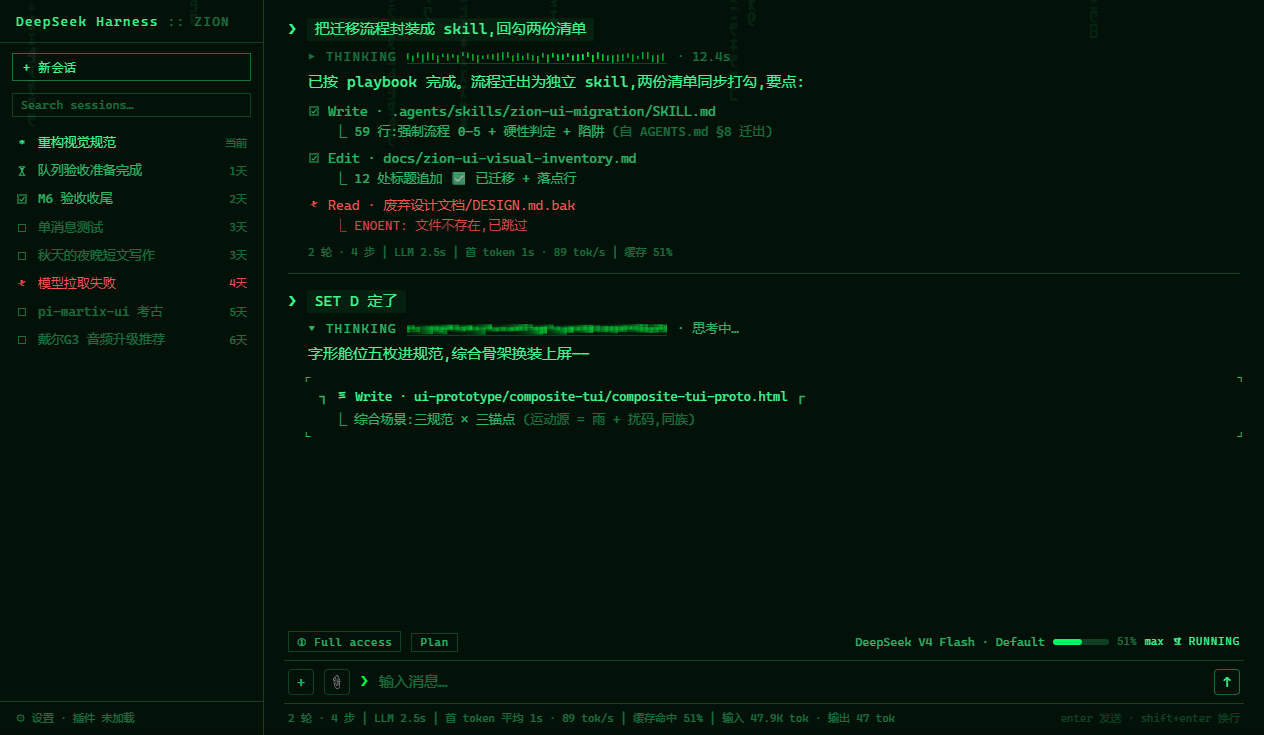
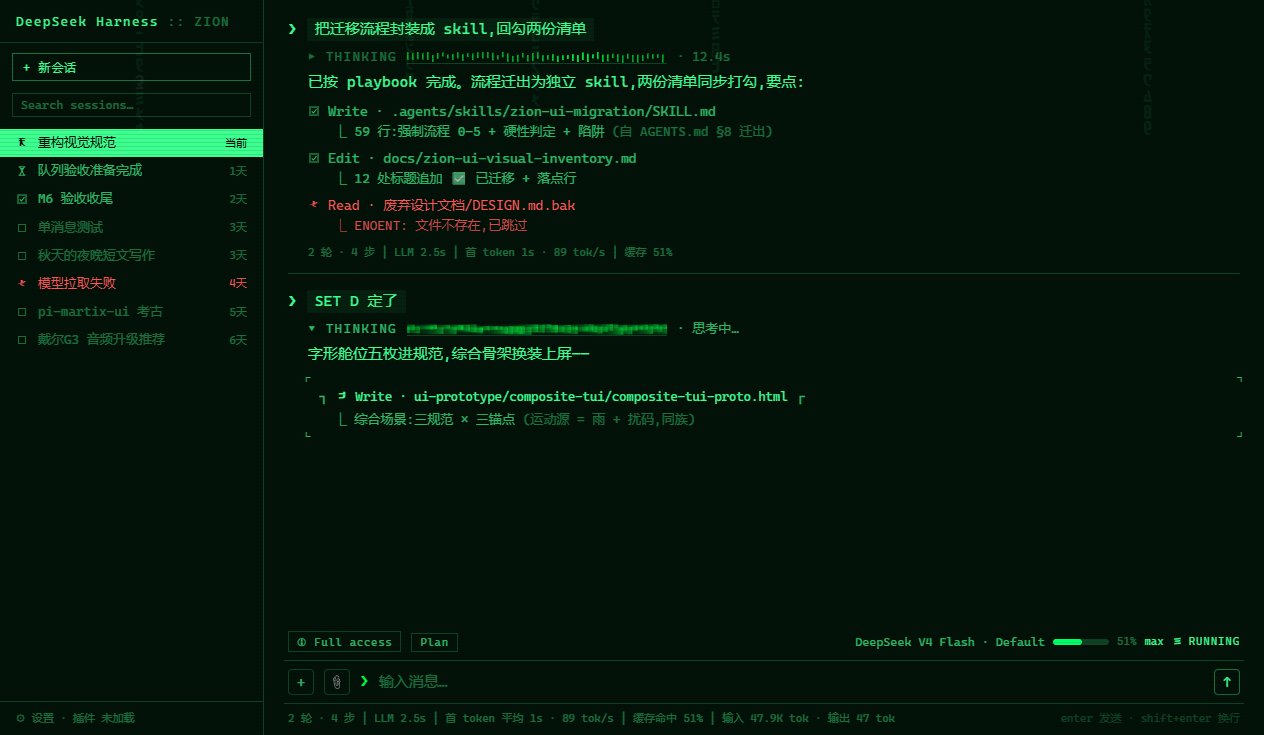
docs(design): 沉淀 §2.10 反色选中行(C08 选 A 全反),composite 侧栏上反显
- DESIGN.md §2.10:选中=整行反显(底 #3dff8f 字 #010a04),行内一切一并反色;
  hover=6% 薄底与选中分两档;错误行选中红让位,✗ 图标保留语义;一列表至多一个反色行
- row-select demo:A/B 对照,选定 A
- composite-tui 侧栏当前会话行换装反显

Changed region(s): [[0.0, 0.1497, 0.216, 0.2395], [0.3394, 0.419, 0.5245, 0.4789]]

diff --git a/ui-prototype/row-select/row-select-proto.html b/ui-prototype/row-select/row-select-proto.html
@@ -1,0 +1,143 @@
+<!DOCTYPE html>
+<!-- PROTOTYPE — throwaway: C08 反色选中行微 demo
+     裁决问题:选中行 = A 全反(底 #3dff8f)还是 B 柔反(底 70% 档)?
+     纪律:选中 = 整行反显(前景背景互换),不加边框、不加左侧色条;行内图标/文字一并反色;
+     hover 与选中分两档(hover = 6% 薄底,选中 = 反显)。 -->
+<html lang="zh">
+<head>
+<meta charset="utf-8">
+<title>C08 · 反色选中行</title>
+<style>
+  @font-face { font-family: "Matrix Code"; src: url("../../renderer/src/assets/fonts/Matrix-Code.ttf"); font-display: swap; }
+  :root {
+    --bg: #010a04;
+    --surface: rgba(2, 18, 9, 0.92);
+    --p100: rgba(61, 255, 143, 1);
+    --p70: rgba(61, 255, 143, 0.7);
+    --p40: rgba(61, 255, 143, 0.4);
+    --p20: rgba(61, 255, 143, 0.2);
+    --danger: #ff5555;
+    --font: "Share Tech Mono", ui-monospace, "Cascadia Mono", "Courier New", "Sarasa Term SC", "Microsoft YaHei", monospace;
+  }
+  * { margin: 0; padding: 0; box-sizing: border-box; }
+  body { background: var(--bg); color: var(--p100); font: 15px/1.55 var(--font); padding: 28px 32px; }
+  *::-webkit-scrollbar { width: 6px; height: 6px; }
+  *::-webkit-scrollbar-thumb { background: #00ff66; border-radius: 3px; }
+  *::-webkit-scrollbar-track, *::-webkit-scrollbar-corner { background: transparent; }
+
+  h1 { font-size: 13px; letter-spacing: 0.12em; margin-bottom: 4px; }
+  h1 .tag { color: var(--p40); }
+  .rule { color: var(--p70); font-size: 12px; margin-bottom: 22px; }
+  h2 { font-size: 11px; letter-spacing: 0.14em; color: var(--p70); margin: 24px 0 10px; text-transform: uppercase; }
+  h2::before { content: "─ "; color: var(--p40); }
+
+  .lanes { display: grid; grid-template-columns: 1fr 1fr; gap: 20px; }
+  .grp { border: 1px solid var(--p20); background: var(--surface); padding: 12px 14px; margin-bottom: 16px; }
+  .grp .gt { font-size: 11px; letter-spacing: 0.1em; color: var(--p40); margin-bottom: 8px; }
+
+  .li { display: flex; gap: 8px; align-items: center; font-size: 13px; line-height: 1.9;
+    white-space: nowrap; padding: 0 8px; margin: 0 -8px; }
+  .li .t { overflow: hidden; text-overflow: ellipsis; }
+  .li .age { margin-left: auto; font-size: 11px; color: var(--p40); }
+  .li .ic svg { width: 12px; height: 12px; display: block; }
+  .c-run { color: var(--p100); } .c-wait { color: var(--p70); } .c-idle { color: var(--p40); }
+  .c-done { color: var(--p70); } .c-err { color: var(--danger); }
+  .li.idle { color: var(--p40); } .li.wait { color: var(--p70); } .li.done { color: var(--p70); }
+  .li.err { color: var(--danger); }
+  .li.hover { background: rgba(61,255,143,0.06); }
+  .li .key { color: var(--p100); }
+  .li .hint { margin-left: auto; font-size: 11px; color: var(--p40); }
+
+  /* A 全反:底 100% 磷光,字黑场 */
+  .lane-a .li.sel { background: var(--p100); color: var(--bg); }
+  .lane-a .li.sel * { color: var(--bg) !important; }
+  /* B 柔反:底 70% 磷光,字黑场 */
+  .lane-b .li.sel { background: var(--p70); color: var(--bg); }
+  .lane-b .li.sel * { color: var(--bg) !important; }
+
+  .note { color: var(--p40); font-size: 11px; line-height: 1.8; margin-top: 6px; }
+</style>
+</head>
+<body>
+
+<h1>C08 · 反色选中行 <span class="tag">— A 全反(100% 底)vs B 柔反(70% 底)</span></h1>
+<div class="rule">选中 = 整行反显,行内一切(图标/文字/age/hint)一并反色;不加边框不加色条。hover = 6% 薄底,与选中分两档。</div>
+
+<div class="lanes">
+  <div class="lane-a">
+    <h2>A · 全反 #3dff8f</h2>
+    <div class="grp">
+      <div class="gt">SIDEBAR · 会话列表</div>
+      <div class="li sel"><span class="ic" data-k="run"></span><span class="t">重构视觉规范</span><span class="age">当前</span></div>
+      <div class="li wait"><span class="ic c-wait" data-k="wait"></span><span class="t">队列验收准备完成</span><span class="age">1天</span></div>
+      <div class="li done hover"><span class="ic c-done" data-k="done"></span><span class="t">M6 验收收尾</span><span class="age">2天</span></div>
+      <div class="li idle"><span class="ic c-idle" data-k="idle"></span><span class="t">单消息测试</span><span class="age">3天</span></div>
+      <div class="li err"><span class="ic c-err" data-k="err"></span><span class="t">模型拉取失败</span><span class="age">4天</span></div>
+    </div>
+    <div class="grp">
+      <div class="gt">QUEUE · 队列坞</div>
+      <div class="li sel"><span class="key">[1]</span><span class="t">补充第二条指令</span><span class="hint">编辑</span></div>
+      <div class="li wait"><span class="key">[2]</span><span class="t">回勾 HANDOFF</span><span class="hint">esc 取消</span></div>
+    </div>
+    <div class="grp">
+      <div class="gt">PALETTE · 命令菜单</div>
+      <div class="li sel"><span class="key">/model</span><span class="t">切换模型</span><span class="hint">tab</span></div>
+      <div class="li wait"><span class="key">/permission</span><span class="t">权限预设</span></div>
+      <div class="li wait"><span class="key">/goal</span><span class="t">设定目标</span></div>
+    </div>
+  </div>
+  <div class="lane-b">
+    <h2>B · 柔反 70% 底</h2>
+    <div class="grp">
+      <div class="gt">SIDEBAR · 会话列表</div>
+      <div class="li sel"><span class="ic" data-k="run"></span><span class="t">重构视觉规范</span><span class="age">当前</span></div>
+      <div class="li wait"><span class="ic c-wait" data-k="wait"></span><span class="t">队列验收准备完成</span><span class="age">1天</span></div>
+      <div class="li done hover"><span class="ic c-done" data-k="done"></span><span class="t">M6 验收收尾</span><span class="age">2天</span></div>
+      <div class="li idle"><span class="ic c-idle" data-k="idle"></span><span class="t">单消息测试</span><span class="age">3天</span></div>
+      <div class="li err"><span class="ic c-err" data-k="err"></span><span class="t">模型拉取失败</span><span class="age">4天</span></div>
+    </div>
+    <div class="grp">
+      <div class="gt">QUEUE · 队列坞</div>
+      <div class="li sel"><span class="key">[1]</span><span class="t">补充第二条指令</span><span class="hint">编辑</span></div>
+      <div class="li wait"><span class="key">[2]</span><span class="t">回勾 HANDOFF</span><span class="hint">esc 取消</span></div>
+    </div>
+    <div class="grp">
+      <div class="gt">PALETTE · 命令菜单</div>
+      <div class="li sel"><span class="key">/model</span><span class="t">切换模型</span><span class="hint">tab</span></div>
+      <div class="li wait"><span class="key">/permission</span><span class="t">权限预设</span></div>
+      <div class="li wait"><span class="key">/goal</span><span class="t">设定目标</span></div>
+    </div>
+  </div>
+</div>
+
+<div class="note">判断点:① 反色行是列表里唯一允许的大面积高亮(其余一切走亮度档)——A 最响,B 折中;② 错误行若被选中,红也一并反成黑字(红让位给反显,语义由 ✗ 图标保留);③ hover(6% 薄底)与选中(反显)必须可一眼区分。</div>
+
+<script>
+const MXCHARS = 'アウエオカキケコサシスセソタツテナニヌネハヒホマミムメモヤヨラリワー012345789*+<>:|';
+const MXFONT = '"Matrix Code","Share Tech Mono",monospace';
+let clipSeq = 0;
+const ICON = {
+  run:  `<text class="mx-run" x="6" y="9.2" text-anchor="middle" font-family='${MXFONT}' font-size="9" fill="currentColor">ア</text>`,
+  wait: `<path d="M2.8 1.8 H9.2 M2.8 10.2 H9.2 M3.7 1.8 L8.3 10.2 M8.3 1.8 L3.7 10.2" fill="none" stroke="currentColor"/><path d="M4.7 3.1 L7.3 3.1 L6 5.3 Z" fill="currentColor"/>`,
+  idle: `<rect x="2.5" y="2.5" width="7" height="7" fill="none" stroke="currentColor" stroke-width="0.9"/>`,
+  done: `<rect x="2" y="2" width="8" height="8" fill="none" stroke="currentColor"/><path d="M3.7 6.3 L5.4 8 L8.5 4.1" fill="none" stroke="currentColor" stroke-width="1.1"/>`,
+};
+function glitchSvg() {
+  const n = ++clipSeq;
+  return `<clipPath id="mct${n}"><rect x="0" y="0" width="12" height="5.5"/></clipPath>` +
+    `<clipPath id="mcb${n}"><rect x="0" y="5.5" width="12" height="6.5"/></clipPath>` +
+    `<text x="6.9" y="9.2" text-anchor="middle" font-family='${MXFONT}' font-size="9" fill="currentColor" clip-path="url(#mct${n})">メ</text>` +
+    `<text x="5.1" y="9.2" text-anchor="middle" font-family='${MXFONT}' font-size="9" fill="currentColor" clip-path="url(#mcb${n})">メ</text>`;
+}
+document.querySelectorAll('.ic').forEach((el) => {
+  const k = el.dataset.k;
+  el.innerHTML = `<svg viewBox="0 0 12 12" aria-hidden="true">${k === 'err' ? glitchSvg() : ICON[k]}</svg>`;
+});
+setInterval(() => {
+  document.querySelectorAll('.mx-run').forEach((t) => {
+    t.textContent = MXCHARS[(Math.random() * MXCHARS.length) | 0];
+  });
+}, 120);
+</script>
+</body>
+</html>

diff --git a/ui-prototype/composite-tui/composite-tui-proto.html b/ui-prototype/composite-tui/composite-tui-proto.html
@@ -60,6 +60,10 @@
   .s.idle .t { color: var(--p40); }
   .s.done .t { color: var(--p70); }
   .s.err  .t, .s.err .age { color: var(--danger); }
+  .s:hover { background: rgba(61,255,143,0.06); }
+  /* 反色选中行(DESIGN.md §2.10):整行反显,行内一切一并反色 */
+  .s.sel, .s.sel:hover { background: var(--p100); }
+  .s.sel *, .s.sel:hover * { color: var(--bg) !important; }
   .side-foot { padding: 8px 16px; border-top: 1px solid var(--p20); font-size: 11px; color: var(--p40); }
 
   /* ── 主列 ── */
@@ -138,7 +142,7 @@
     <button class="newbtn">+ 新会话</button>
     <input class="search" placeholder="Search sessions…">
     <div class="sessions">
-      <div class="s run"><span class="g ic c-run" data-k="run"></span><span class="t">重构视觉规范</span><span class="age">当前</span></div>
+      <div class="s run sel"><span class="g ic c-run" data-k="run"></span><span class="t">重构视觉规范</span><span class="age">当前</span></div>
       <div class="s wait"><span class="g ic c-wait" data-k="wait"></span><span class="t">队列验收准备完成</span><span class="age">1天</span></div>
       <div class="s done"><span class="g ic c-done" data-k="done"></span><span class="t">M6 验收收尾</span><span class="age">2天</span></div>
       <div class="s idle"><span class="g ic c-idle" data-k="idle"></span><span class="t">单消息测试</span><span class="age">3天</span></div>

diff --git a/DESIGN.md b/DESIGN.md
@@ -154,6 +154,18 @@ Matrix 的辨识度来自黑场、磷光绿、字形与状态叙事,不来自效
 
 > 验证:`ui-prototype/turn-divider/`(A 发丝线 vs B ASCII 虚线对照,2026-08-29 选 A)。
 
+### 2.10 反色选中行(C08)
+
+列表(侧栏/队列/菜单/一切可枚举行)的选中态 = 整行反显:底 = 100% 磷光 `#3dff8f`,字 = 黑场 `#010a04`。
+
+- 选中 = 列表的光标:最高对比,不加边框、不加左侧色条;行内图标/文字/辅助信息一并反色。
+- hover 与选中分两档:hover = 6% 磷光薄底,选中 = 反显,二者必须一眼可分。
+- 错误行被选中时红让位给反显,语义由 ✗ 图标保留。
+- 反色行是列表里唯一允许的大面积高亮;一个列表一屏至多一个反色行。
+- 被替代物:选中态的底色块 + 左边条组合(既有样式属待修正)。
+
+> 验证:`ui-prototype/row-select/`(A 全反 vs B 柔反对照,2026-08-29 选 A)。
+
 ## 3. 不可交换的边界
 
 风格可以重做,以下边界不因任何风格任务豁免:
